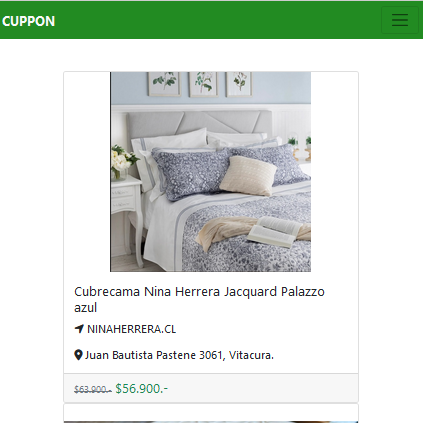
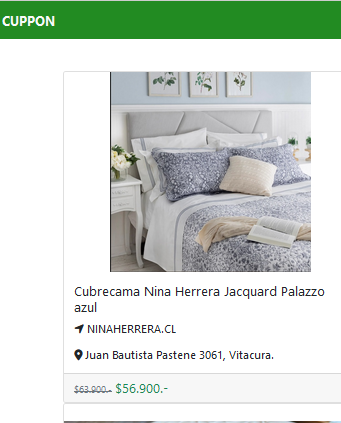
modificacion de las fotos de las cards

diff --git a/index.html b/index.html
@@ -63,16 +63,10 @@
 
         <h2 class="display-3 fw-bold my-4">Acerca de mi</h2>
 
-        <p class="my-4">
-            Lorem, ipsum dolor sit amet consectetur adipisicing elit. Odio quisquam distinctio, odit laborum aliquam
-            earum itaque cum sequi, dolorem optio vol
-        </p>
-
-
         <div class="row">
             <div class="col-12 col-md-4">
                 <i class="fas fa-camera fa-3x my-3"></i>
-                <h3 class="my-3 fw-bold">Fotógrafa de comida</h3>
+                <h3 class="my-3 fw-bold">Viajera</h3>
                 <p class="my-3">
                     Lorem ipsum dolor sit amet, consectetur adipisicing elit, sed do
                     eiusmod tempor incididunt ut labore et dolore magna aliqua. Ut enim
@@ -111,14 +105,15 @@
         <div class="row">
             <div class="col-12 col-sm-4 py-2">
                 <div class="card">
-                    <div class="image-top" style="background-image: url(assets/img/card-1.jpg)"></div>
+                    <div class="image-top" style="background-image: url(assets/img/viajera.jpg)"></div>"
+
                     <div class="card-body">
-                        <h5 class="card-title fw-bold">Asado en la Patagonia</h5>
+                        <h5 class="card-title fw-bold">Ventisquero colgante</h5>
                         <p class="card-text">
-                            Lorem ipsum dolor sit amet, consectetur adipisicing elit.
-                            Explicabo iure sint, perspiciatis distinctio molestias nihil
-                            repudiandae neque rem adipisci repellendus libero illo quo
-                            blanditiis, velit quasi ad, recusandae voluptates officia.
+                            Este sector está a 10 km de la Posada y para ingresar debe pagarse una entrada. Este sector
+                            ofrece un centro de interpretación y 4 sendas de distinta dificultad.
+                            Todas estas sendas son auto-guiadas y se recomienda destinar gran parte del día a
+                            recorrerlas.
                         </p>
                         <button type="button" class="btn btn-outline-info">
                             Ver más
@@ -128,14 +123,14 @@
             </div>
             <div class="col-12 col-sm-4 py-2">
                 <div class="card">
-                    <div class="image-top" style="background-image: url(assets/img/card-2.jpg)"></div>
+                    <div class="image-top" style="background-image: url(assets/img/TM.jpeg)"></div>
                     <div class="card-body">
-                        <h5 class="card-title fw-bold">Papas del fin del mundo</h5>
+                        <h5 class="card-title fw-bold">Tecnólogo Médico con Mención en Laboratorio Clínico. Hematología
+                            y Banco de sangre</h5>
                         <p class="card-text">
-                            Lorem ipsum dolor sit amet, consectetur adipisicing elit.
-                            Deserunt a culpa doloremque voluptatem dicta nam. Maxime ipsum,
-                            consequatur quos error fuga excepturi quo. Laudantium optio
-                            pariatur laboriosam modi, ea molestias?
+                            Profesional cuarto turno en el área Biología Molecular, procesamiento mediante extracción,
+                            amplificación y verificación de resultados PCR SARS-CoV 2 y análisis de mutaciones asociadas
+                            a variantes.
                         </p>
                         <button type="button" class="btn btn-outline-info">
                             Ver más
@@ -145,14 +140,13 @@
             </div>
             <div class="col-12 col-sm-4 py-2">
                 <div class="card">
-                    <div class="image-top" style="background-image: url(assets/img/card-3.jpg)"></div>
+                    <div class="image-top" style="background-image: url(assets/img/boostrap\ fotooo.png)"></div>"
                     <div class="card-body">
-                        <h5 class="card-title fw-bold">Salmones de Alaska</h5>
+                        <h5 class="card-title fw-bold">Futura Desarrolladora Full stack JavaScript</h5>
                         <p class="card-text">
-                            Lorem ipsum dolor sit amet, consectetur adipisicing elit.
-                            Obcaecati facere quibusdam sint id laborum magni velit ducimus
-                            corporis facilis qui architecto dolor, accusamus eveniet
-                            exercitationem fugit. Quod autem neque ducimus.
+                            Un desarrollador Full Stack JavaScript es el profesional capaz de crear proyectos tanto en
+                            el Front End como en el Back End de una aplicación o desarrollo web, utilizando lenguaje de
+                            programación JavaScript, siendo capaz de entregar un proyecto de inicio a fin.
                         </p>
                         <button type="button" class="btn btn-outline-info">
                             Ver más

diff --git a/assets/css/estilos.css b/assets/css/estilos.css
@@ -14,7 +14,7 @@ body {
 /* Mis trabajos */
 
 #Mis-trabajos .image-top {
-  height: 250px;
+  height: 500px;
   background-repeat: no-repeat;
   background-size: cover;
   background-position: center;
